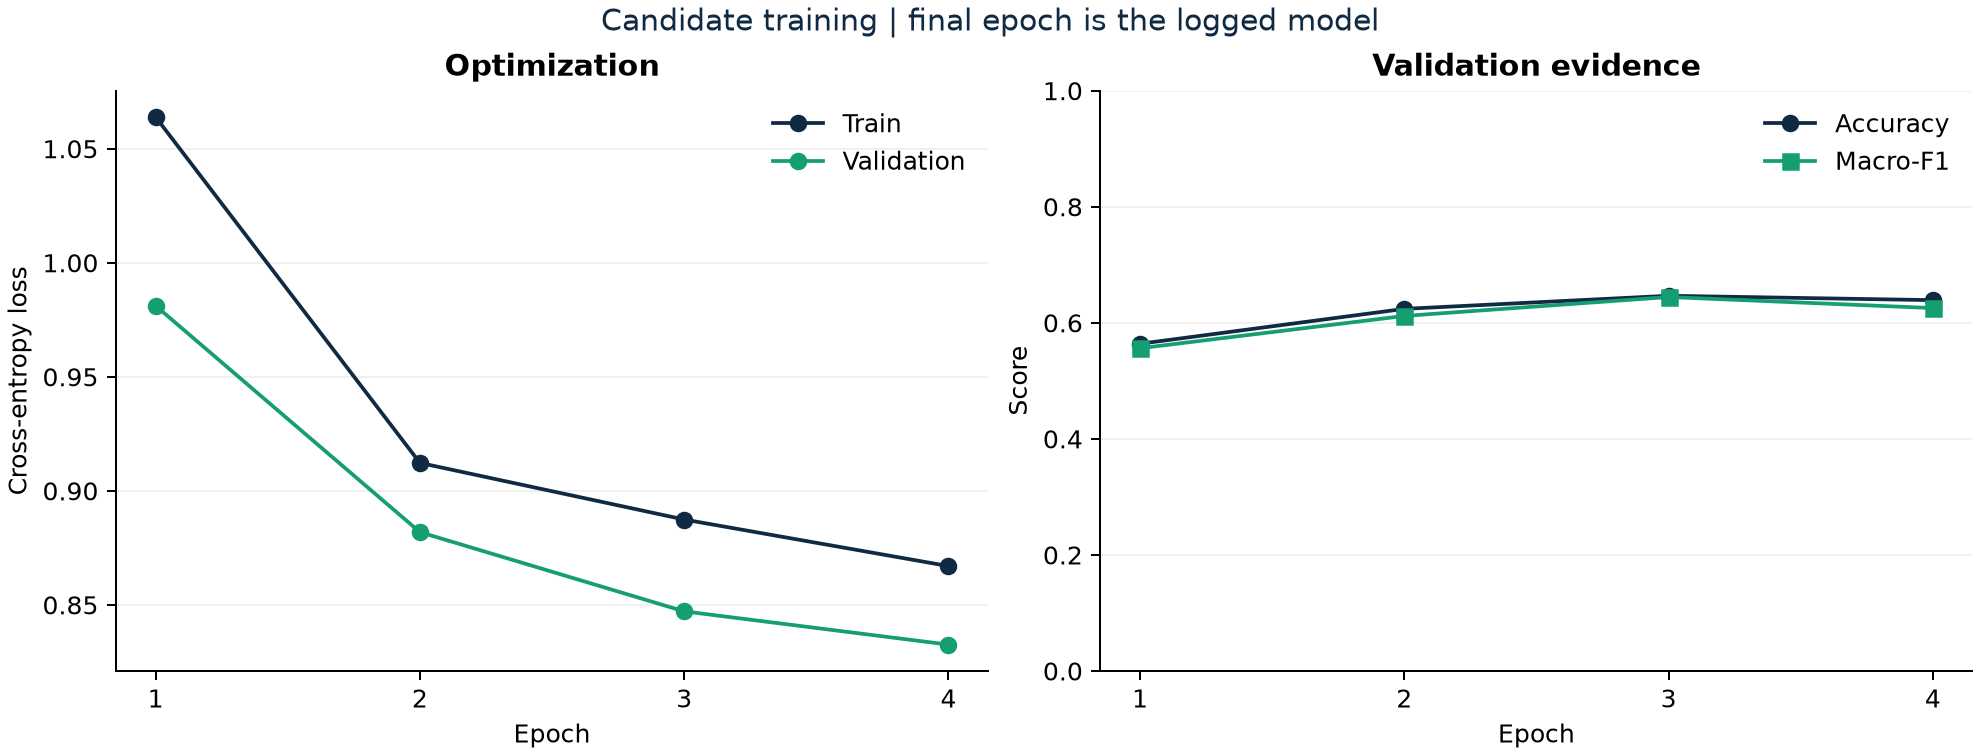
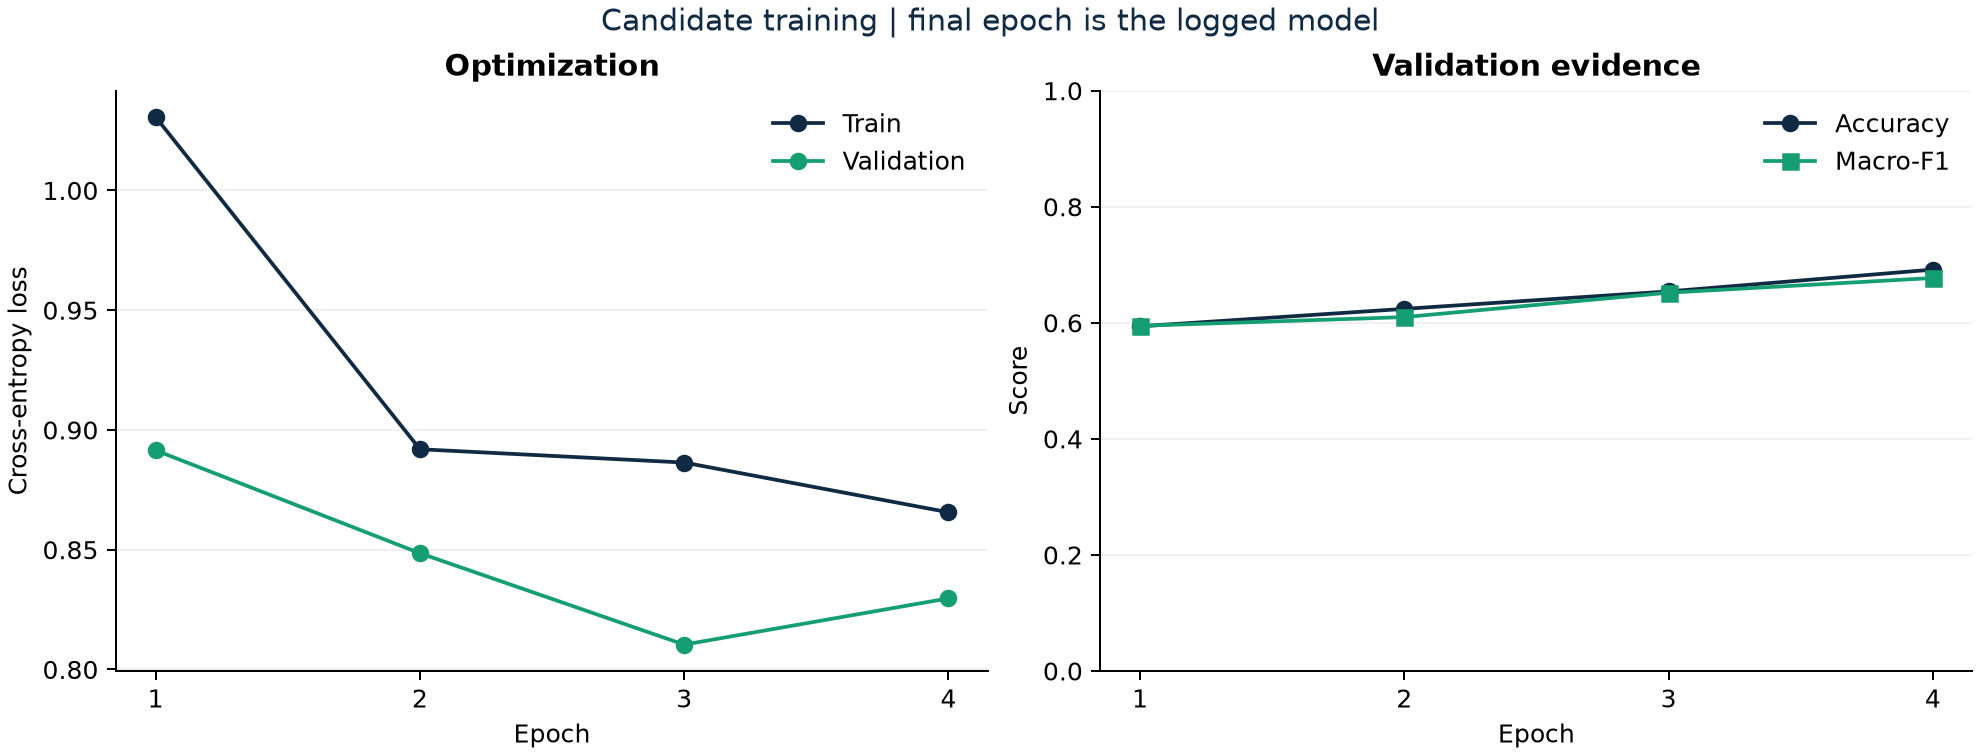
Record Run B and the recomputation checks

diff --git a/LAB_REPORT.md b/LAB_REPORT.md
@@ -118,9 +118,16 @@ Edit src/validate_data.py;
 VALIDATE (RERUN): src/validate_data.py is in validate's deps:, so DVC reruns validate.   
 PREPARE, TRAIN, EVALUATE (REUSED): Because reports/data_quality.json is deterministic and its content does not change after validate finishes, prepare's input dependency (reports/data_quality.json) is unchanged, so DVC skips all downstream stages.  
 
-RUN A: 8fa943ff6c17a3c874d2b152e9d7980602a5cd50c0d8156625bd00590a3d8c6c
+RUN A: 444e84db7f354cb68951427e02bf946c
 Running it again without changes skips every stage.
 Running it after adding a comment reruns validate and reuse the else 
+RUN B: 3bc9fee5a81f45ccbb66038acb05fda2
 
+| Check | Relevant Terminal Lines | VALIDATE | PREPARE | TRAIN | EVALUATE |
+| :--- | :--- | :--- | :--- | :--- | :--- |
+| **1. Run again without changing anything** | `Stage 'validate' didn't change, skipping` / `Stage 'prepare' didn't change, skipping` / `Stage 'train' didn't change, skipping` / `Data and pipelines are up to date.` | REUSED | REUSED | REUSED | NOT RUN |
+| **2. Add a comment to `src/validate_data.py` (report unchanged)** | `Running stage 'validate': > uv run --locked python -m src.validate_data` / `Stage 'prepare' didn't change, skipping` / `Stage 'train' didn't change, skipping` | RERUN | REUSED | REUSED | NOT RUN |
+| **3. Change `train.learning_rate` (or Run B param)** | `Stage 'validate' didn't change, skipping` / `Stage 'prepare' didn't change, skipping` / `Running stage 'train': > uv run --locked python -m src.train` | REUSED | REUSED | RERUN | NOT RUN |
+| **4. Change `data.image_size`** | `Stage 'validate' didn't change, skipping` / `Running stage 'prepare': > uv run --locked python -m src.prepare` / `Running stage 'train': > uv run --locked python -m src.train` | REUSED | RERUN | RERUN | NOT RUN |
 </summary>
 </details>
